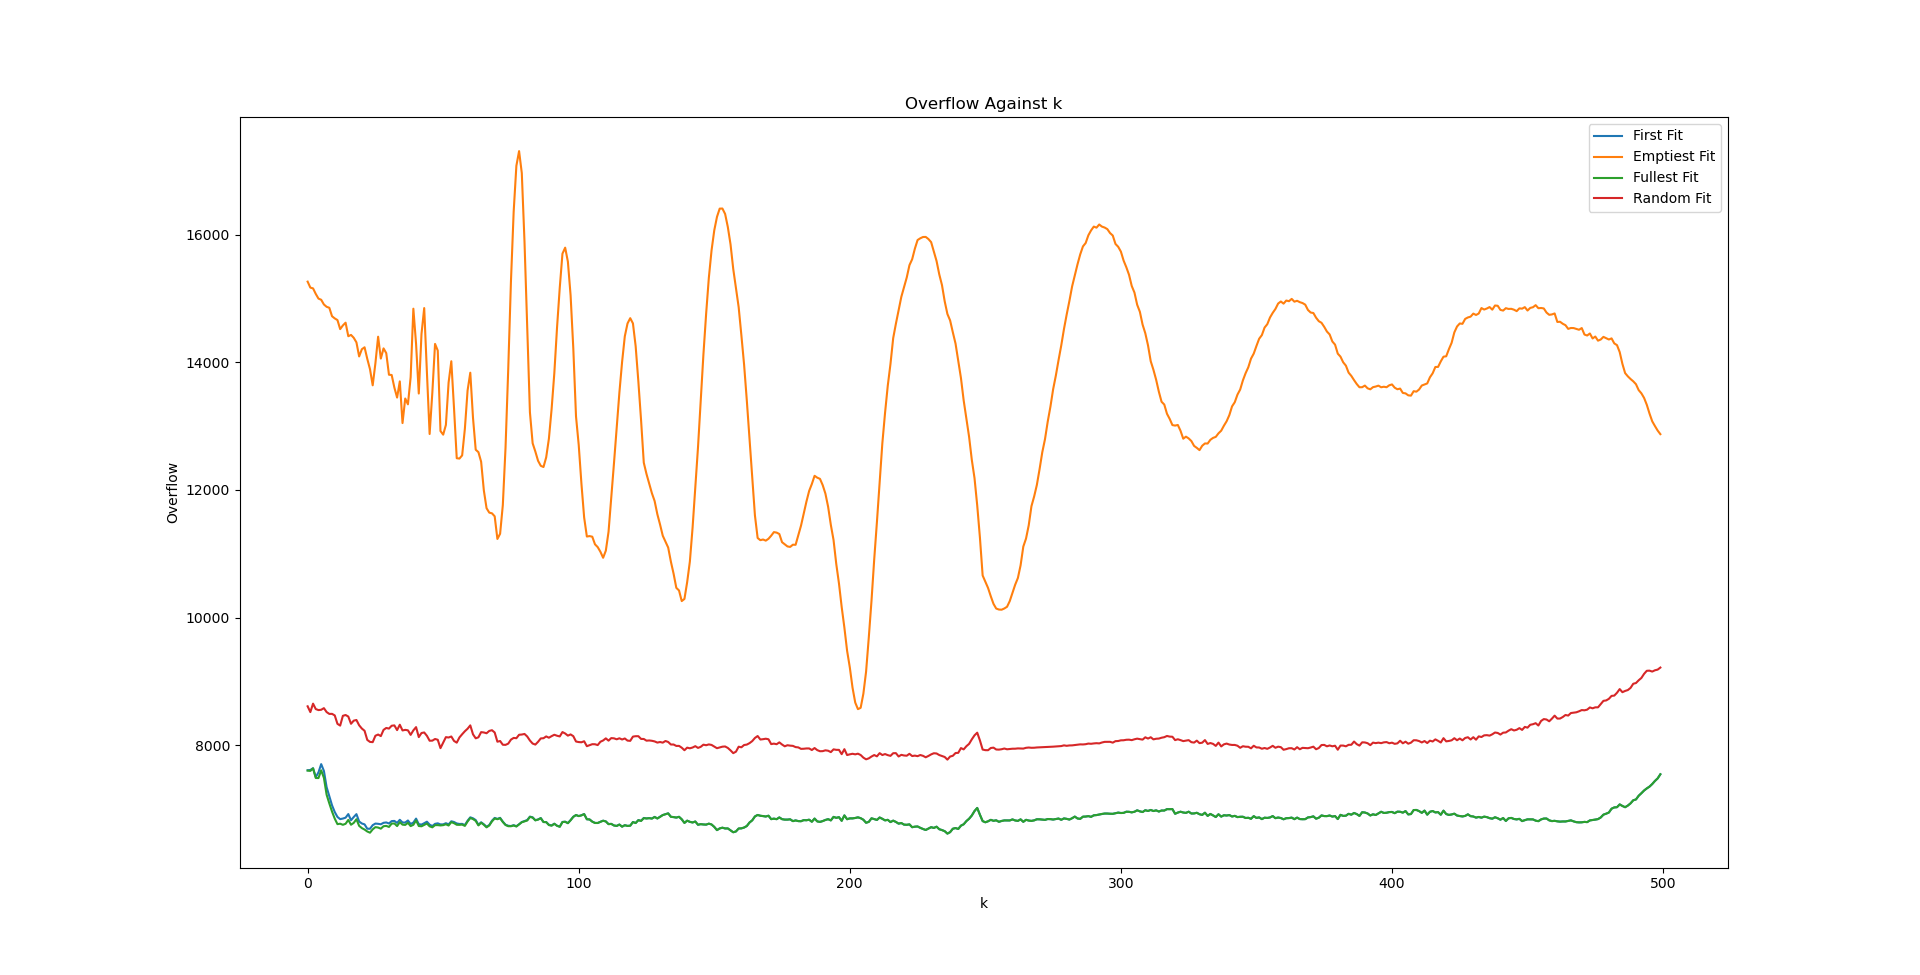
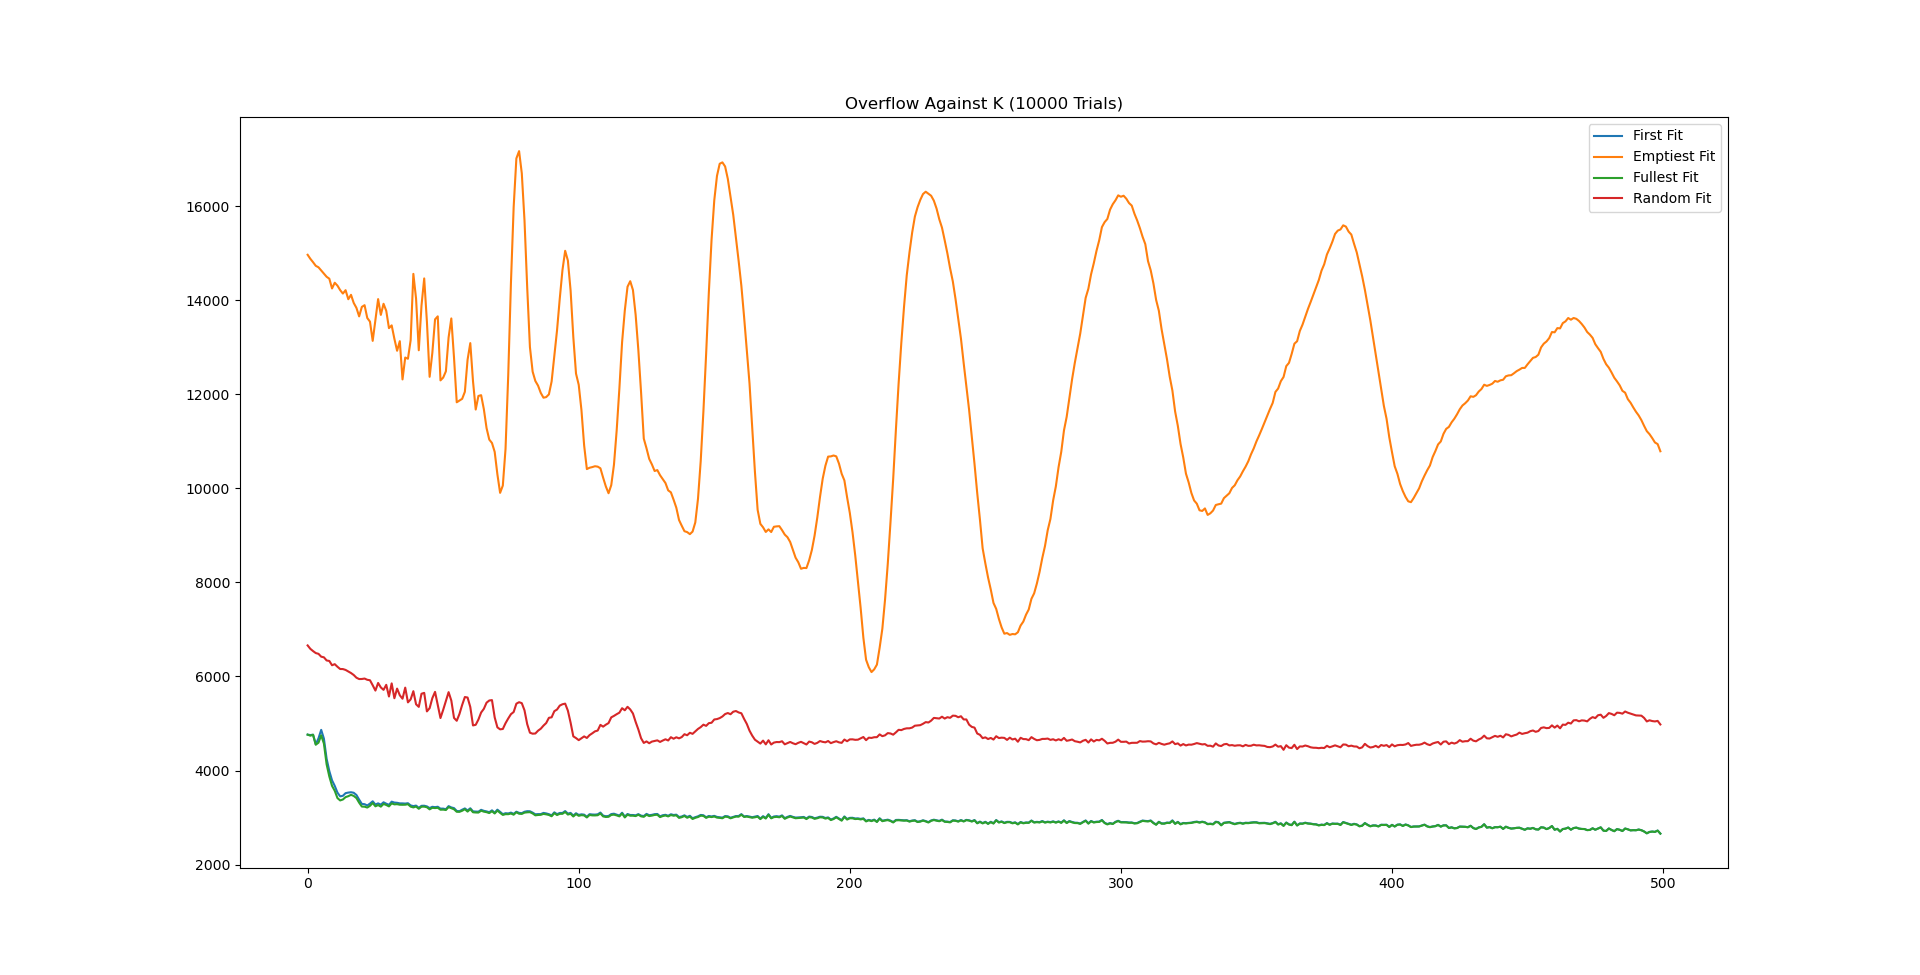
Added new figures

diff --git a/task.py b/task.py
@@ -119,7 +119,7 @@ def task_1() :
             cars.append(int(line))
 
     lane_selectors = [get_first_lane, get_emptiest_lane, get_fullest_lane, get_random_lane]
-    lane_selector = int(input("What lane selector do you wish to use? 0:First, 1:Emptiest, 2:Fullest, 3:Random "))
+    lane_selector = int(input("What lane selectors do you wish to use?  0:First, 1:Emptiest, 2:Fullest, 3:Random "))
     trials = int(input("How many trials do you wish to perform? "))
 
     avg_overflow_size = sum(get_overflow(num_lanes, capacity, cars, lane_selectors[lane_selector]) for i in range(trials)) / trials
@@ -158,33 +158,29 @@ def task_2() :
     samples = []
     for lane_selector in lane_selectors : 
         overflows = [get_overflow(85, 3000, generate_random_input(), lane_selector) for i in range(trials)]
-        print("Algorithm ", lane_selector, " : ")
-        print(" The average overflow is : ", statistics.mean(overflows))
-        print(" The variance of overflow is : ", statistics.variance(overflows))
+        print("Algorithm ", lane_selector.__name__, " : mean = ", statistics.mean(overflows), "var = ", statistics.variance(overflows))
         samples.append(overflows)
 
     print(scipy.stats.f_oneway(*samples))
+    print(scipy.stats.ttest_ind(samples[0], samples[2], equal_var=False))
+    plt.bar([l.__name__ for l in lane_selectors], [statistics.mean(sample) for sample in samples])
+    plt.show()
 
-
-def task_2b() : 
-    trials = 1000
-    X_1 = [get_overflow(85, 3000, generate_random_input(), get_first_lane) for i in range(1000)]
-    X_2 = [get_overflow(85, 3000, generate_random_input(), get_fullest_lane) for i in range(1000)]
-    print(scipy.stats.ttest_ind(X_1,X_2, equal_var = False))
 
 def task_3_a() : 
     lane_selectors = [get_first_lane, get_emptiest_lane, get_fullest_lane, get_random_lane]
-    trials = 1000
+    trials = 10000
 
     samples = []
     for lane_selector in lane_selectors : 
         overflows = [get_overflow(85, 3000, generate_random_input(False), lane_selector) for i in range(trials)]
-        print("Algorithm ", lane_selector, " : ")
-        print(" The average overflow is : ", statistics.mean(overflows))
-        print(" The variance of overflow is : ", statistics.variance(overflows))
+        print("Algorithm ", lane_selector.__name__, " : mean = ", statistics.mean(overflows), "var = ", statistics.variance(overflows))
         samples.append(overflows)
 
     print(scipy.stats.f_oneway(*samples))
+    print(scipy.stats.ttest_ind(samples[0], samples[2], equal_var=False))
+    plt.bar([l.__name__ for l in lane_selectors], [statistics.mean(sample) for sample in samples])
+    plt.show()
 
 def get_overflow_sorting_k(num_lanes, capacity, cars, lane_selector, k) : 
     """
@@ -217,27 +213,27 @@ def get_overflow_sorting_k(num_lanes, capacity, cars, lane_selector, k) :
     return overflow
 
 def task_3_b() : 
-    lane_selectors = [get_first_lane]
-    trials = 1000
+    lane_selectors = [get_first_lane, get_emptiest_lane, get_fullest_lane, get_random_lane]
+    trials = 10000
 
     for lane_selector in lane_selectors : 
         overflow_against_k = []
-        for k in tqdm.tqdm(range(1,501)) : 
+        for k in range(1,501) : 
             overflows = sum([get_overflow_sorting_k(85, 3000, generate_random_input(), lane_selector, k) for i in range(trials)]) / trials
             overflow_against_k.append(overflows)
+        print(scipy.stats.spearmanr(range(1,501), overflow_against_k))
         plt.plot(overflow_against_k)
     plt.show()
 
-task_3_b()
-
 def task_3_c() : 
     lane_selectors = [get_first_lane, get_emptiest_lane, get_fullest_lane, get_random_lane]
-    trials = 500
+    trials = 1000
 
     for lane_selector in lane_selectors : 
         overflow_against_lane_number = []
-        for no_lanes in tqdm.tqdm(range(1,201)) : 
+        for no_lanes in tqdm.tqdm(range(1,730)) : 
             overflows = sum([get_overflow(no_lanes, 3000*85/no_lanes, generate_random_input(), lane_selector) for i in range(trials)]) / trials
             overflow_against_lane_number.append(overflows)
+        print(scipy.stats.spearmanr(range(1,730), overflow_against_lane_number))
         plt.plot(overflow_against_lane_number)
     plt.show()
